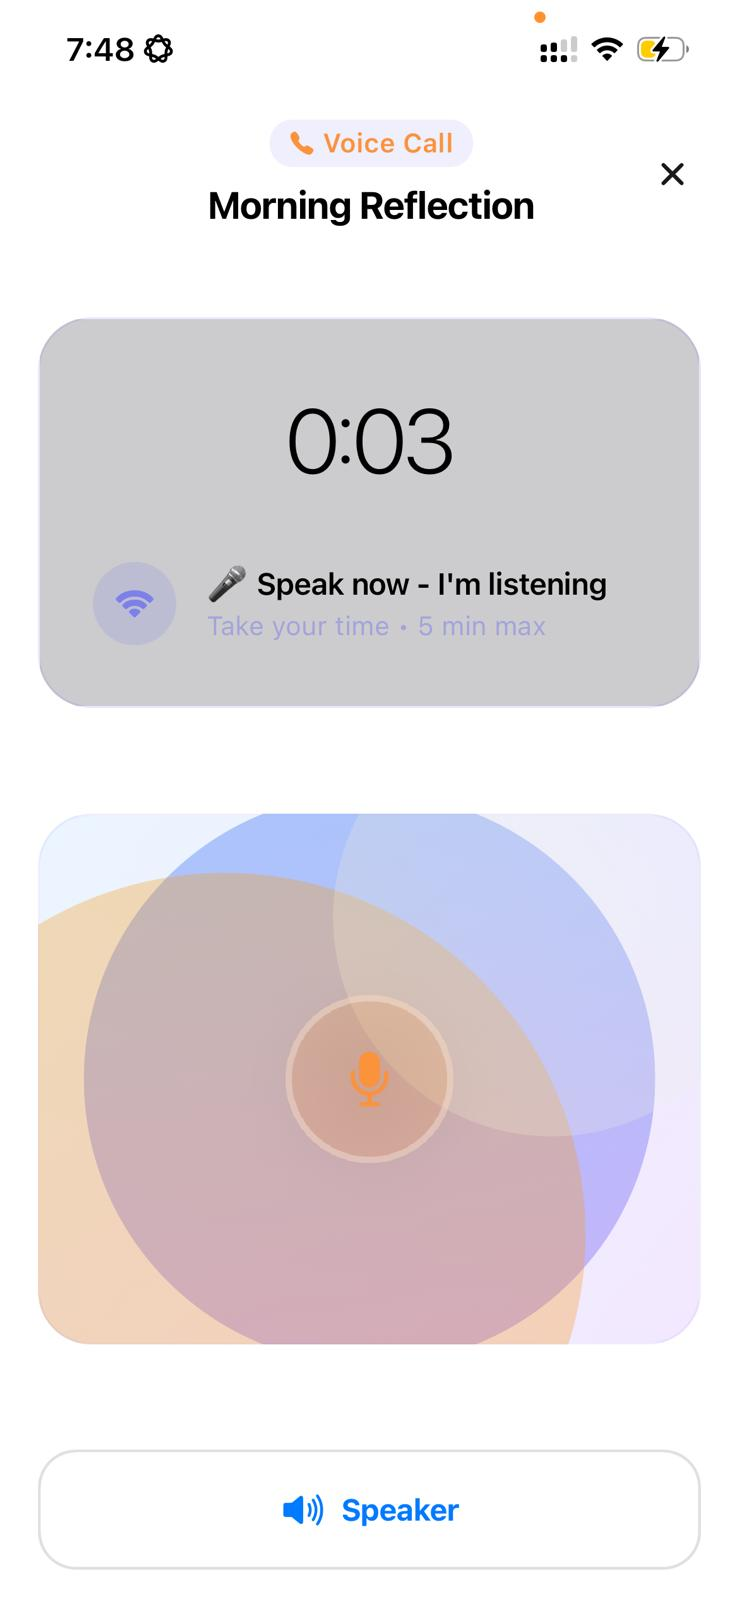
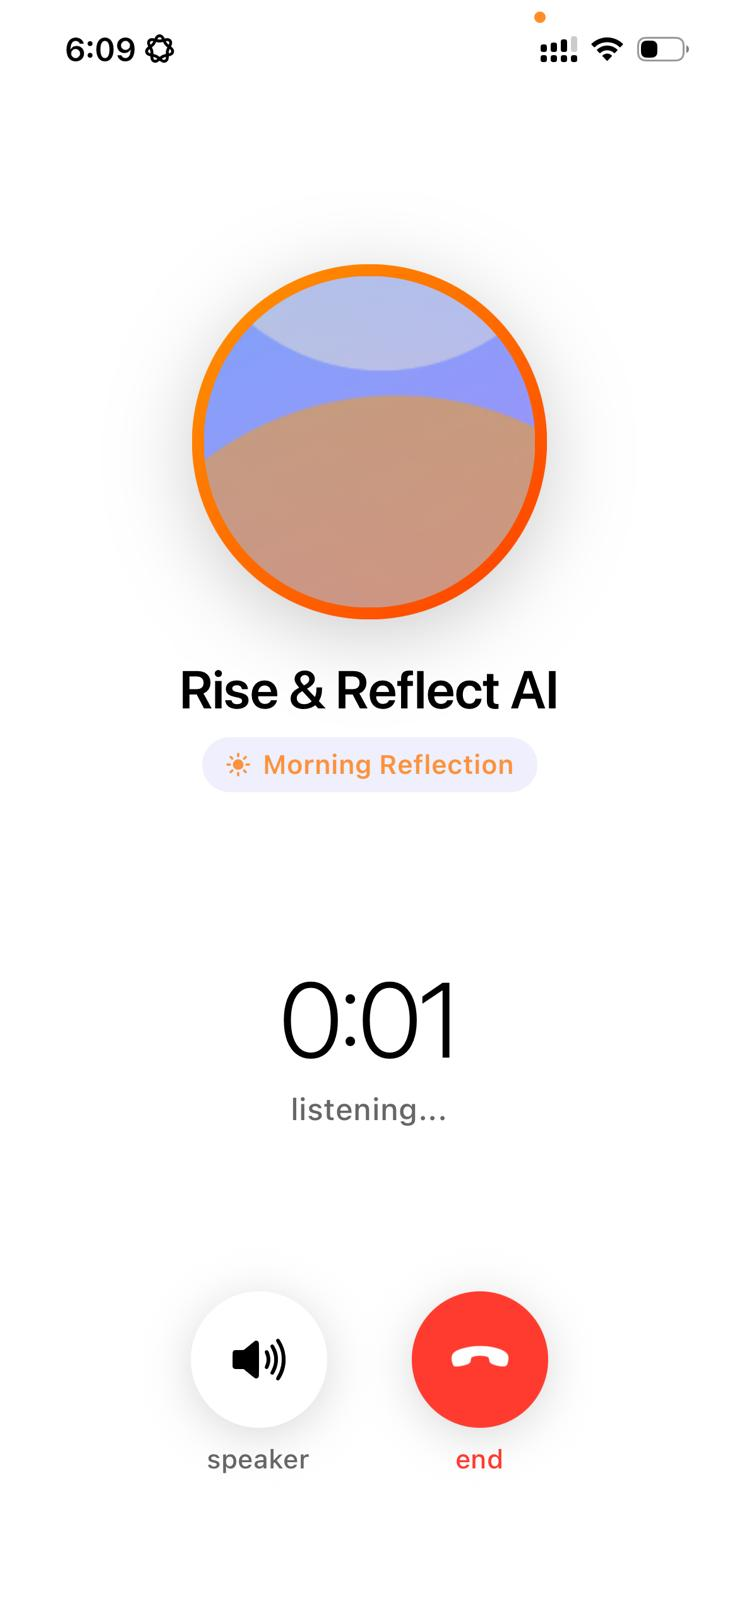
updated texts and images to match phone call

diff --git a/index.html b/index.html
@@ -3,25 +3,25 @@
 <head>
     <meta charset="UTF-8">
     <meta name="viewport" content="width=device-width, initial-scale=1.0">
-    <title>Rise & Reflect (Rise and Reflect) - AI Voice Journaling App for Personal Growth</title>
+    <title>Rise & Reflect - Daily Reflection Phone Call | Real-Time AI Conversations</title>
 
     <!-- SEO Meta Tags -->
-    <meta name="description" content="Rise & Reflect - Think out loud, grow yourself. AI-powered voice journaling app for personal reflection. Natural morning and evening conversations help you process thoughts, discover solutions, and track growth. Completely private.">
-    <meta name="keywords" content="rise and reflect, rise & reflect, rise and reflect app, rise & reflect app, voice journaling, voice journaling app, AI voice journal, AI reflection, self-improvement app, mental wellness, mindfulness app, personal growth app, emotional intelligence, morning reflection, evening journal, private journaling">
+    <meta name="description" content="Rise & Reflect - Daily reflection phone call. Not recording - actual conversation. Real-time AI asks thoughtful questions while you drive, walk, or anywhere. Like therapy, but daily. Completely private.">
+    <meta name="keywords" content="rise and reflect, rise & reflect, daily reflection phone call, real-time AI conversation, phone call reflection, live AI conversation, AI phone therapy, self-improvement app, mental wellness, mindfulness app, personal growth app, emotional intelligence, morning reflection, evening reflection, private journaling, talking therapy alternative">
     <meta name="author" content="Matan Cohen Abravanel">
 
     <!-- Open Graph / Facebook -->
     <meta property="og:type" content="website">
     <meta property="og:url" content="https://riseandreflect.net/">
-    <meta property="og:title" content="Rise & Reflect - Think Out Loud, Grow Yourself">
-    <meta property="og:description" content="AI-powered voice journaling that asks the right questions, then remembers what matters to you.">
+    <meta property="og:title" content="Rise & Reflect - Daily Reflection Phone Call">
+    <meta property="og:description" content="Real-time AI phone conversations. Not recording - actual conversation. Talk, get responses, reflect together. Like therapy, but daily.">
     <meta property="og:image" content="https://riseandreflect.net/apple-touch-icon.png">
 
     <!-- Twitter -->
     <meta property="twitter:card" content="summary_large_image">
     <meta property="twitter:url" content="https://riseandreflect.net/">
-    <meta property="twitter:title" content="Rise & Reflect - Think Out Loud, Grow Yourself">
-    <meta property="twitter:description" content="AI-powered voice journaling that asks the right questions, then remembers what matters to you.">
+    <meta property="twitter:title" content="Rise & Reflect - Daily Reflection Phone Call">
+    <meta property="twitter:description" content="Real-time AI phone conversations. Not recording - actual conversation. Talk, get responses, reflect together. Like therapy, but daily.">
     <meta property="twitter:image" content="https://riseandreflect.net/apple-touch-icon.png">
 
     <!-- Favicons -->
@@ -59,7 +59,7 @@
             "price": "0",
             "priceCurrency": "USD"
         },
-        "description": "AI-powered voice journaling app for personal reflection and self-discovery. Think out loud, grow yourself with natural morning and evening conversations.",
+        "description": "Daily reflection phone call app. Real-time AI conversations - not recording, actual phone calls. Talk naturally while driving or walking. Like therapy, but daily.",
         "screenshot": "https://riseandreflect.net/images/screen-begin.jpeg",
         "aggregateRating": {
             "@type": "AggregateRating",
@@ -71,12 +71,13 @@
             "name": "Matan Cohen Abravanel"
         },
         "featureList": [
-            "Voice journaling with AI",
+            "Real-time phone call conversations with AI",
+            "Live responses - not recording",
             "Morning and evening reflection sessions",
             "Pattern recognition and insights",
-            "Goal tracking",
+            "Goal tracking and progress monitoring",
             "100% private - on-device storage",
-            "Weekly emotional intelligence reports"
+            "Works while driving, walking, anywhere"
         ]
     }
     </script>
@@ -108,7 +109,7 @@
                 "name": "What is Rise & Reflect?",
                 "acceptedAnswer": {
                     "@type": "Answer",
-                    "text": "Rise & Reflect (also known as Rise and Reflect) is an AI-powered voice journaling app that helps you process thoughts through natural conversations. It features morning intention-setting and evening reflection sessions, with all data stored privately on your device."
+                    "text": "Rise & Reflect (also known as Rise and Reflect) is a daily reflection phone call app. Not recording - actual real-time conversations with AI. Talk naturally while driving, walking, or anywhere. It features morning and evening phone sessions, with all data stored privately on your device."
                 }
             },
             {
@@ -124,7 +125,7 @@
                 "name": "How long are Rise & Reflect sessions?",
                 "acceptedAnswer": {
                     "@type": "Answer",
-                    "text": "Each Rise and Reflect session takes just 5 minutes. You can do one morning session and one evening session per day for optimal results."
+                    "text": "Each Rise and Reflect phone call takes just 5 minutes. You can do one morning conversation and one evening conversation per day. Quick live conversations that fit into your actual life while driving, walking, or anywhere."
                 }
             },
             {
@@ -132,7 +133,7 @@
                 "name": "How does Rise and Reflect track my goals?",
                 "acceptedAnswer": {
                     "@type": "Answer",
-                    "text": "Rise & Reflect uses AI to identify goals and patterns from your voice conversations. It remembers your strategies, what works for you, and helps you build on past successes over time."
+                    "text": "Rise & Reflect uses AI to identify goals and patterns from your real-time phone conversations. It remembers your strategies, what works for you, and helps you build on past successes over time. During live calls, the AI asks thoughtful questions that help you discover your own solutions."
                 }
             }
         ]
@@ -1093,15 +1094,15 @@
             <div class="floating-icon" style="width: 140px; margin: 0 auto 2rem;">
                 <img src="images/login-charicter.png" alt="Rise & Reflect - Mindful character illustration for voice journaling app" style="width: 100%; height: auto; display: block;">
             </div>
-            <h1>Think Out Loud, Grow Yourself</h1>
-            <p style="font-size: 1.4rem; font-weight: 500; margin-bottom: 2rem;">Voice journaling that asks the right questions, then remembers what matters to you</p>
+            <h1>Daily Reflection Phone Call</h1>
+            <p style="font-size: 1.4rem; font-weight: 500; margin-bottom: 2rem;">Reflection through conversation, not writing.<br>Real-time AI asks thoughtful questions, and you find clarity through your answers.</p>
             <div style="display: flex; flex-direction: column; align-items: center; gap: 1.5rem; margin-bottom: 2rem;">
                 <div style="display: inline-flex; align-items: center; gap: 0.5rem; background: rgba(76, 175, 80, 0.15); padding: 0.75rem 1.5rem; border-radius: 50px; border: 1.5px solid rgba(76, 175, 80, 0.3); box-shadow: 0 4px 20px rgba(76, 175, 80, 0.2);">
                     <svg width="20" height="20" viewBox="0 0 24 24" fill="none" stroke="#4CAF50" stroke-width="2.5" stroke-linecap="round" stroke-linejoin="round"><rect width="18" height="11" x="3" y="11" rx="2" ry="2"/><path d="M7 11V7a5 5 0 0 1 10 0v4"/></svg>
                     <span style="font-size: 0.95rem; font-weight: 600; color: #2E7D32;">This conversation stays on your device only</span>
                 </div>
             </div>
-            <p style="font-size: 1.1rem; opacity: 0.85; margin-bottom: 2rem;">Stop overthinking alone. Have natural voice conversations that help you process thoughts, discover your own solutions, and track what's working in your life.</p>
+            <p style="font-size: 1.1rem; opacity: 0.85; margin-bottom: 2rem;">Most people are surprised by how natural it feels - and how much they discover about themselves in just one conversation.</p>
             <div style="display: flex; flex-direction: column; align-items: center; gap: 1rem;">
                 <a href="#subscribe" class="cta-button">Get Early Access</a>
             </div>
@@ -1196,42 +1197,42 @@
 
     <!-- Features -->
     <section class="features reveal">
-        <h2>Stop Overthinking. Start Understanding.</h2>
+        <h2>The Only App With Phone-Call Conversations</h2>
         <div class="features-grid">
             <div class="feature-card">
                 <div class="feature-icon">
-                    <svg xmlns="http://www.w3.org/2000/svg" viewBox="0 0 24 24" fill="none" stroke="url(#gradient1)" stroke-width="2" stroke-linecap="round" stroke-linejoin="round"><defs><linearGradient id="gradient1" x1="0%" y1="0%" x2="100%" y2="100%"><stop offset="0%" style="stop-color:#FF9500"/><stop offset="100%" style="stop-color:#9B59B6"/></linearGradient></defs><path d="M12 2a3 3 0 0 0-3 3v7a3 3 0 0 0 6 0V5a3 3 0 0 0-3-3Z"/><path d="M19 10v2a7 7 0 0 1-14 0v-2"/><line x1="12" y1="19" x2="12" y2="22"/></svg>
+                    <svg xmlns="http://www.w3.org/2000/svg" viewBox="0 0 24 24" fill="none" stroke="url(#gradient1)" stroke-width="2" stroke-linecap="round" stroke-linejoin="round"><defs><linearGradient id="gradient1" x1="0%" y1="0%" x2="100%" y2="100%"><stop offset="0%" style="stop-color:#FF9500"/><stop offset="100%" style="stop-color:#9B59B6"/></linearGradient></defs><path d="M22 16.92v3a2 2 0 0 1-2.18 2 19.79 19.79 0 0 1-8.63-3.07 19.5 19.5 0 0 1-6-6 19.79 19.79 0 0 1-3.07-8.67A2 2 0 0 1 4.11 2h3a2 2 0 0 1 2 1.72 12.84 12.84 0 0 0 .7 2.81 2 2 0 0 1-.45 2.11L8.09 9.91a16 16 0 0 0 6 6l1.27-1.27a2 2 0 0 1 2.11-.45 12.84 12.84 0 0 0 2.81.7A2 2 0 0 1 22 16.92z"/></svg>
                 </div>
-                <h3>Think Out Loud, Hands-Free</h3>
-                <p>Process your thoughts naturally through voice—no typing, no staring at a blank page. Just speak and be heard.</p>
+                <h3>Real Phone Conversations</h3>
+                <p>Have actual conversations while living your life - no typing, no screens. Talk naturally while driving, walking, or anywhere, like calling a thoughtful friend.</p>
             </div>
             <div class="feature-card">
                 <div class="feature-icon">
-                    <svg xmlns="http://www.w3.org/2000/svg" viewBox="0 0 24 24" fill="none" stroke="url(#gradient2)" stroke-width="2" stroke-linecap="round" stroke-linejoin="round"><defs><linearGradient id="gradient2" x1="0%" y1="0%" x2="100%" y2="100%"><stop offset="0%" style="stop-color:#FF9500"/><stop offset="100%" style="stop-color:#9B59B6"/></linearGradient></defs><path d="M3 3v18h18"/><path d="m19 9-5 5-4-4-3 3"/></svg>
+                    <svg xmlns="http://www.w3.org/2000/svg" viewBox="0 0 24 24" fill="none" stroke="url(#gradient2)" stroke-width="2" stroke-linecap="round" stroke-linejoin="round"><defs><linearGradient id="gradient2" x1="0%" y1="0%" x2="100%" y2="100%"><stop offset="0%" style="stop-color:#FF9500"/><stop offset="100%" style="stop-color:#9B59B6"/></linearGradient></defs><path d="M21 15a2 2 0 0 1-2 2H7l-4 4V5a2 2 0 0 1 2-2h14a2 2 0 0 1 2 2z"/></svg>
                 </div>
-                <h3>See Yourself More Clearly</h3>
-                <p>Notice emotional patterns you'd miss on your own. Weekly insights reveal how you're growing in self-awareness and resilience.</p>
+                <h3>Get Real-Time Responses</h3>
+                <p>Real-time AI asks thoughtful questions and responds as you speak. Not recording and transcribing - an actual live conversation that helps you think out loud.</p>
             </div>
             <div class="feature-card">
                 <div class="feature-icon">
-                    <svg xmlns="http://www.w3.org/2000/svg" viewBox="0 0 24 24" fill="none" stroke="url(#gradient3)" stroke-width="2" stroke-linecap="round" stroke-linejoin="round"><defs><linearGradient id="gradient3" x1="0%" y1="0%" x2="100%" y2="100%"><stop offset="0%" style="stop-color:#FF9500"/><stop offset="100%" style="stop-color:#9B59B6"/></linearGradient></defs><path d="M22 12h-4l-3 9L9 3l-3 9H2"/></svg>
+                    <svg xmlns="http://www.w3.org/2000/svg" viewBox="0 0 24 24" fill="none" stroke="url(#gradient3)" stroke-width="2" stroke-linecap="round" stroke-linejoin="round"><defs><linearGradient id="gradient3" x1="0%" y1="0%" x2="100%" y2="100%"><stop offset="0%" style="stop-color:#FF9500"/><stop offset="100%" style="stop-color:#9B59B6"/></linearGradient></defs><path d="M3 3v18h18"/><path d="m19 9-5 5-4-4-3 3"/></svg>
                 </div>
-                <h3>Remember What You Learn About Yourself</h3>
-                <p>Your strategies for tough moments, what energizes you, what drains you—we remember, so you can build on past wins.</p>
+                <h3>Discover Your Patterns</h3>
+                <p>Weekly insights reveal how you're evolving and what's working. See patterns in your thinking, emotions, and growth that you'd miss on your own.</p>
             </div>
             <div class="feature-card">
                 <div class="feature-icon">
-                    <svg xmlns="http://www.w3.org/2000/svg" viewBox="0 0 24 24" fill="none" stroke="url(#gradient4)" stroke-width="2" stroke-linecap="round" stroke-linejoin="round"><defs><linearGradient id="gradient4" x1="0%" y1="0%" x2="100%" y2="100%"><stop offset="0%" style="stop-color:#FF9500"/><stop offset="100%" style="stop-color:#9B59B6"/></linearGradient></defs><rect width="18" height="18" x="3" y="4" rx="2" ry="2"/><line x1="16" x2="16" y1="2" y2="6"/><line x1="8" x2="8" y1="2" y2="6"/><line x1="3" x2="21" y1="10" y2="10"/></svg>
+                    <svg xmlns="http://www.w3.org/2000/svg" viewBox="0 0 24 24" fill="none" stroke="url(#gradient4)" stroke-width="2" stroke-linecap="round" stroke-linejoin="round"><defs><linearGradient id="gradient4" x1="0%" y1="0%" x2="100%" y2="100%"><stop offset="0%" style="stop-color:#FF9500"/><stop offset="100%" style="stop-color:#9B59B6"/></linearGradient></defs><path d="M16 21v-2a4 4 0 0 0-4-4H6a4 4 0 0 0-4 4v2"/><circle cx="9" cy="7" r="4"/><path d="M22 21v-2a4 4 0 0 0-3-3.87M16 3.13a4 4 0 0 1 0 7.75"/></svg>
                 </div>
-                <h3>Watch Your Progress Over Time</h3>
-                <p>Look back at past reflections and see how far you've come. Celebrate growth you might have forgotten.</p>
+                <h3>Track Goals & Growth</h3>
+                <p>Set goals, monitor progress, and see achievements unfold. We remember what matters to you, so insights don't slip away and you can build on past wins.</p>
             </div>
             <div class="feature-card">
                 <div class="feature-icon">
                     <svg xmlns="http://www.w3.org/2000/svg" viewBox="0 0 24 24" fill="none" stroke="url(#gradient5)" stroke-width="2" stroke-linecap="round" stroke-linejoin="round"><defs><linearGradient id="gradient5" x1="0%" y1="0%" x2="100%" y2="100%"><stop offset="0%" style="stop-color:#FF9500"/><stop offset="100%" style="stop-color:#9B59B6"/></linearGradient></defs><circle cx="12" cy="12" r="10"/><polyline points="12 6 12 12 16 14"/></svg>
                 </div>
-                <h3>Fits Into Your Actual Life</h3>
-                <p>Morning coffee? Evening commute? Just 5 minutes, twice a day. No elaborate rituals required.</p>
+                <h3>Just 5 Minutes Daily</h3>
+                <p>Morning or evening, while driving, walking, or anywhere. Quick live conversations that fit into your actual life - no elaborate rituals required.</p>
             </div>
             <div class="feature-card">
                 <div class="feature-icon">
@@ -1348,15 +1349,15 @@
 
     <!-- How It Works -->
     <section class="how-it-works reveal">
-        <h2>Simple Daily Practice</h2>
+        <h2>How It Works</h2>
         <div class="steps">
             <div class="step">
                 <div class="step-icon">
-                    <svg xmlns="http://www.w3.org/2000/svg" viewBox="0 0 24 24" fill="none" stroke="url(#gradient7)" stroke-width="2" stroke-linecap="round" stroke-linejoin="round"><defs><linearGradient id="gradient7" x1="0%" y1="0%" x2="100%" y2="100%"><stop offset="0%" style="stop-color:#FF9500"/><stop offset="100%" style="stop-color:#9B59B6"/></linearGradient></defs><circle cx="12" cy="12" r="5"/><line x1="12" y1="1" x2="12" y2="3"/><line x1="12" y1="21" x2="12" y2="23"/><line x1="4.22" y1="4.22" x2="5.64" y2="5.64"/><line x1="18.36" y1="18.36" x2="19.78" y2="19.78"/><line x1="1" y1="12" x2="3" y2="12"/><line x1="21" y1="12" x2="23" y2="12"/><line x1="4.22" y1="19.78" x2="5.64" y2="18.36"/><line x1="18.36" y1="5.64" x2="19.78" y2="4.22"/></svg>
+                    <svg xmlns="http://www.w3.org/2000/svg" viewBox="0 0 24 24" fill="none" stroke="url(#gradient7)" stroke-width="2" stroke-linecap="round" stroke-linejoin="round"><defs><linearGradient id="gradient7" x1="0%" y1="0%" x2="100%" y2="100%"><stop offset="0%" style="stop-color:#FF9500"/><stop offset="100%" style="stop-color:#9B59B6"/></linearGradient></defs><path d="M22 16.92v3a2 2 0 0 1-2.18 2 19.79 19.79 0 0 1-8.63-3.07 19.5 19.5 0 0 1-6-6 19.79 19.79 0 0 1-3.07-8.67A2 2 0 0 1 4.11 2h3a2 2 0 0 1 2 1.72 12.84 12.84 0 0 0 .7 2.81 2 2 0 0 1-.45 2.11L8.09 9.91a16 16 0 0 0 6 6l1.27-1.27a2 2 0 0 1 2.11-.45 12.84 12.84 0 0 0 2.81.7A2 2 0 0 1 22 16.92z"/></svg>
                 </div>
                 <div class="step-content">
-                    <h3>Choose Your Session</h3>
-                    <p>Morning for intention-setting or evening for reflection. One of each per day, automatically themed to match the time.</p>
+                    <h3>Talk Naturally</h3>
+                    <p>Morning or evening, just 5 minutes of live conversation while driving, walking, or anywhere. Press start and begin your phone call.</p>
                 </div>
             </div>
             <div class="step">
@@ -1364,26 +1365,26 @@
                     <svg xmlns="http://www.w3.org/2000/svg" viewBox="0 0 24 24" fill="none" stroke="url(#gradient8)" stroke-width="2" stroke-linecap="round" stroke-linejoin="round"><defs><linearGradient id="gradient8" x1="0%" y1="0%" x2="100%" y2="100%"><stop offset="0%" style="stop-color:#FF9500"/><stop offset="100%" style="stop-color:#9B59B6"/></linearGradient></defs><path d="M21 15a2 2 0 0 1-2 2H7l-4 4V5a2 2 0 0 1 2-2h14a2 2 0 0 1 2 2z"/></svg>
                 </div>
                 <div class="step-content">
-                    <h3>Have a Natural Conversation</h3>
-                    <p>Press start and talk naturally. AI responds in real-time with empathy and thoughtful questions. 5-minute sessions keep it focused.</p>
+                    <h3>Get Thoughtful Questions Back</h3>
+                    <p>Real-time responses guide you to deeper understanding. Not recording - an actual live conversation that helps you find clarity in your own answers.</p>
                 </div>
             </div>
             <div class="step">
                 <div class="step-icon">
-                    <svg xmlns="http://www.w3.org/2000/svg" viewBox="0 0 24 24" fill="none" stroke="url(#gradient9)" stroke-width="2" stroke-linecap="round" stroke-linejoin="round"><defs><linearGradient id="gradient9" x1="0%" y1="0%" x2="100%" y2="100%"><stop offset="0%" style="stop-color:#FF9500"/><stop offset="100%" style="stop-color:#9B59B6"/></linearGradient></defs><path d="m12 3-1.912 5.813a2 2 0 0 1-1.275 1.275L3 12l5.813 1.912a2 2 0 0 1 1.275 1.275L12 21l1.912-5.813a2 2 0 0 1 1.275-1.275L21 12l-5.813-1.912a2 2 0 0 1-1.275-1.275L12 3Z"/><path d="M5 3v4"/><path d="M19 17v4"/><path d="M3 5h4"/><path d="M17 19h4"/></svg>
+                    <svg xmlns="http://www.w3.org/2000/svg" viewBox="0 0 24 24" fill="none" stroke="url(#gradient9)" stroke-width="2" stroke-linecap="round" stroke-linejoin="round"><defs><linearGradient id="gradient9" x1="0%" y1="0%" x2="100%" y2="100%"><stop offset="0%" style="stop-color:#FF9500"/><stop offset="100%" style="stop-color:#9B59B6"/></linearGradient></defs><path d="M16 21v-2a4 4 0 0 0-4-4H6a4 4 0 0 0-4 4v2"/><circle cx="9" cy="7" r="4"/><path d="M22 21v-2a4 4 0 0 0-3-3.87M16 3.13a4 4 0 0 1 0 7.75"/></svg>
                 </div>
                 <div class="step-content">
-                    <h3>Get Instant Analysis</h3>
-                    <p>After your session, AI generates insights about your sentiment, emotional journey, key topics, and growth patterns.</p>
+                    <h3>Track Your Growth</h3>
+                    <p>Set goals, monitor progress, and see achievements unfold over time. We remember what matters to you.</p>
                 </div>
             </div>
             <div class="step">
                 <div class="step-icon">
-                    <svg xmlns="http://www.w3.org/2000/svg" viewBox="0 0 24 24" fill="none" stroke="url(#gradient10)" stroke-width="2" stroke-linecap="round" stroke-linejoin="round"><defs><linearGradient id="gradient10" x1="0%" y1="0%" x2="100%" y2="100%"><stop offset="0%" style="stop-color:#FF9500"/><stop offset="100%" style="stop-color:#9B59B6"/></linearGradient></defs><path d="M3 3v18h18"/><path d="M18 17V9"/><path d="M13 17V5"/><path d="M8 17v-3"/></svg>
+                    <svg xmlns="http://www.w3.org/2000/svg" viewBox="0 0 24 24" fill="none" stroke="url(#gradient10)" stroke-width="2" stroke-linecap="round" stroke-linejoin="round"><defs><linearGradient id="gradient10" x1="0%" y1="0%" x2="100%" y2="100%"><stop offset="0%" style="stop-color:#FF9500"/><stop offset="100%" style="stop-color:#9B59B6"/></linearGradient></defs><path d="M3 3v18h18"/><path d="m19 9-5 5-4-4-3 3"/></svg>
                 </div>
                 <div class="step-content">
-                    <h3>Track Your Growth Weekly</h3>
-                    <p>Weekly aggregated insights reveal long-term patterns in emotional intelligence, problem-solving, and self-compassion.</p>
+                    <h3>Discover Your Patterns</h3>
+                    <p>Weekly insights reveal how you're evolving and what's working. Build on past wins as your insights don't slip away.</p>
                 </div>
             </div>
         </div>
@@ -1393,9 +1394,9 @@
 
     <!-- Conversation Example -->
     <section class="conversation-section reveal">
-        <h2>It Asks, Then Remembers</h2>
-        <p style="font-size: 1.3rem; font-weight: 500; color: #1a1a1a; margin-bottom: 1rem;">Through thoughtful questions, we help you discover your own strategies-then recall them when you need them most</p>
-        <p style="font-size: 1.05rem; opacity: 0.85; margin-bottom: 2.5rem;">Here's how a real conversation helps you find clarity</p>
+        <h2>Real-Time Phone Conversation</h2>
+        <p style="font-size: 1.3rem; font-weight: 500; color: #1a1a1a; margin-bottom: 1rem;">Through live, thoughtful questions, we help you discover your own strategies - then recall them when you need them most</p>
+        <p style="font-size: 1.05rem; opacity: 0.85; margin-bottom: 2.5rem;">Here's how a real phone call helps you find clarity (not recording - actual conversation)</p>
 
         <div class="conversation-container">
             <div style="display: inline-flex; align-items: center; gap: 0.5rem; background: rgba(76, 175, 80, 0.1); padding: 0.65rem 1.25rem; border-radius: 50px; margin-bottom: 2rem; border: 1.5px solid rgba(76, 175, 80, 0.3);">
@@ -1498,7 +1499,7 @@
             <div style="display: flex; flex-direction: column; gap: 2rem;">
                 <div style="background: linear-gradient(135deg, rgba(255, 149, 0, 0.03) 0%, rgba(155, 89, 182, 0.03) 100%); padding: 2rem; border-radius: 20px; border-left: 4px solid #FF9500;">
                     <h3 style="font-size: 1.4rem; margin-bottom: 1rem; color: #1a1a1a; font-weight: 700;">What is Rise & Reflect?</h3>
-                    <p style="font-size: 1.05rem; line-height: 1.7; color: #555;">Rise & Reflect (also known as Rise and Reflect) is an AI-powered voice journaling app that helps you process thoughts through natural conversations. It features morning intention-setting and evening reflection sessions, with all data stored privately on your device. No typing required—just speak and be heard.</p>
+                    <p style="font-size: 1.05rem; line-height: 1.7; color: #555;">Rise & Reflect (also known as Rise and Reflect) is a daily reflection phone call app. Not recording - actual real-time conversations with AI. Talk naturally while driving, walking, or anywhere. It features morning and evening phone sessions, with all data stored privately on your device. Like therapy, but daily.</p>
                 </div>
 
                 <div style="background: linear-gradient(135deg, rgba(255, 149, 0, 0.03) 0%, rgba(155, 89, 182, 0.03) 100%); padding: 2rem; border-radius: 20px; border-left: 4px solid #9B59B6;">
@@ -1508,12 +1509,12 @@
 
                 <div style="background: linear-gradient(135deg, rgba(255, 149, 0, 0.03) 0%, rgba(155, 89, 182, 0.03) 100%); padding: 2rem; border-radius: 20px; border-left: 4px solid #FF9500;">
                     <h3 style="font-size: 1.4rem; margin-bottom: 1rem; color: #1a1a1a; font-weight: 700;">How long are Rise & Reflect sessions?</h3>
-                    <p style="font-size: 1.05rem; line-height: 1.7; color: #555;">Each Rise and Reflect session takes just 5 minutes. You can do one morning session to set intentions and one evening session for reflection each day. Quick, focused conversations that fit into your actual life—no elaborate rituals required.</p>
+                    <p style="font-size: 1.05rem; line-height: 1.7; color: #555;">Each Rise and Reflect phone call takes just 5 minutes. You can do one morning conversation and one evening conversation per day. Quick live phone conversations that fit into your actual life while driving, walking, or anywhere—no elaborate rituals required.</p>
                 </div>
 
                 <div style="background: linear-gradient(135deg, rgba(255, 149, 0, 0.03) 0%, rgba(155, 89, 182, 0.03) 100%); padding: 2rem; border-radius: 20px; border-left: 4px solid #9B59B6;">
                     <h3 style="font-size: 1.4rem; margin-bottom: 1rem; color: #1a1a1a; font-weight: 700;">How does Rise and Reflect track my goals?</h3>
-                    <p style="font-size: 1.05rem; line-height: 1.7; color: #555;">Rise & Reflect uses AI to identify goals and patterns from your voice conversations. It remembers your strategies, what works for you, and helps you build on past successes over time. The app asks thoughtful questions that help you discover your own solutions, then recalls them when you need them most.</p>
+                    <p style="font-size: 1.05rem; line-height: 1.7; color: #555;">Rise & Reflect uses AI to identify goals and patterns from your real-time phone conversations. It remembers your strategies, what works for you, and helps you build on past successes over time. During live calls, the AI asks thoughtful questions that help you discover your own solutions, then recalls them when you need them most.</p>
                 </div>
 
                 <div style="background: linear-gradient(135deg, rgba(255, 149, 0, 0.03) 0%, rgba(155, 89, 182, 0.03) 100%); padding: 2rem; border-radius: 20px; border-left: 4px solid #FF9500;">
